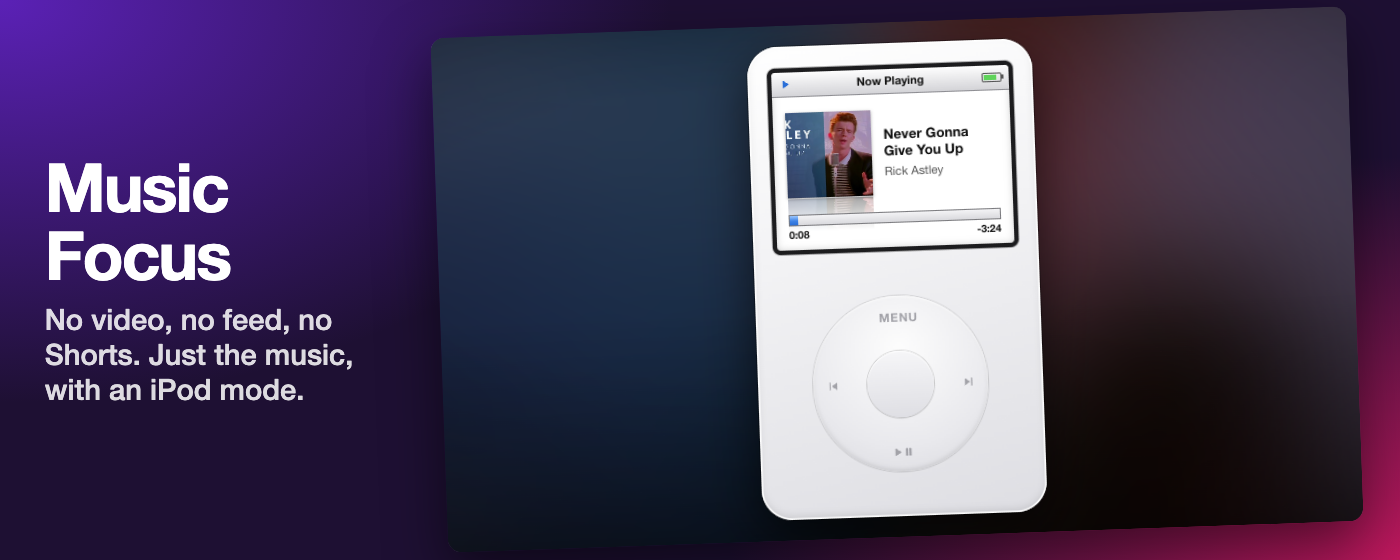
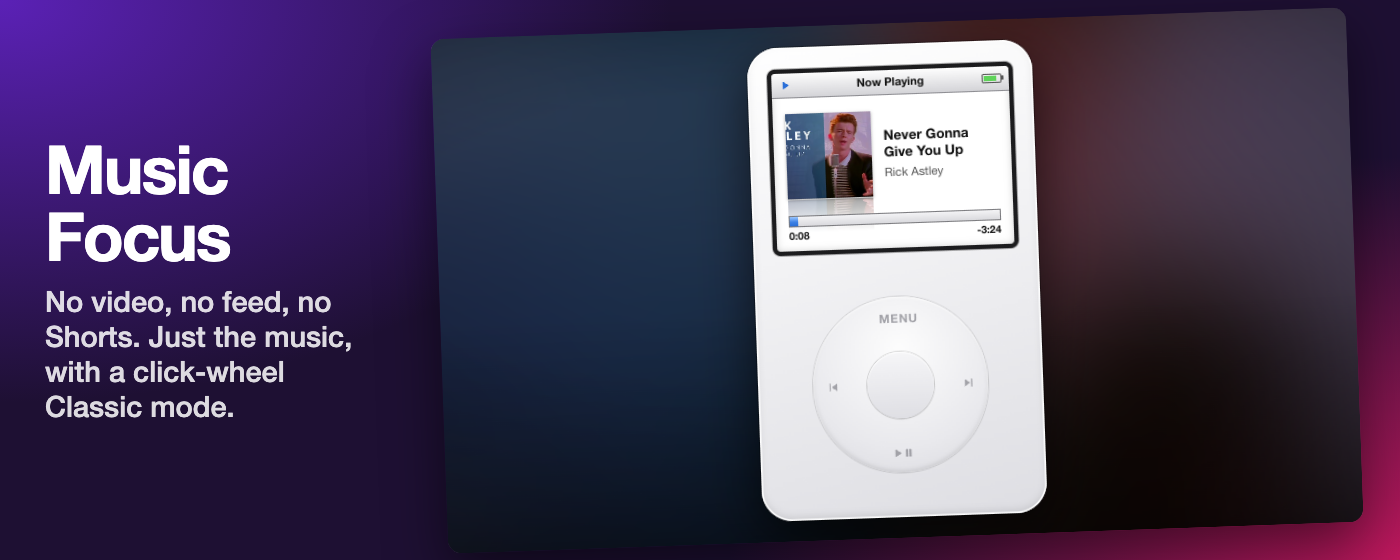
Music Focus 1.1: Classic mode with Brick

diff --git a/public/music-focus/index.html b/public/music-focus/index.html
@@ -4,11 +4,11 @@
 <meta charset="utf-8">
 <meta name="viewport" content="width=device-width, initial-scale=1">
 <title>Music Focus: YouTube, just the music</title>
-<meta name="description" content="A free browser extension that turns YouTube into a music player. No video, no feed, no Shorts, no comments. With an iPod mode and a weekly listening receipt.">
+<meta name="description" content="A free browser extension that turns YouTube into a music player. No video, no feed, no Shorts, no comments. With a click-wheel Classic mode, a Brick game and a weekly listening receipt.">
 <meta property="og:type" content="website">
 <meta property="og:url" content="https://nikola-tesla-odin.github.io/music-focus/">
 <meta property="og:title" content="Music Focus: YouTube, just the music">
-<meta property="og:description" content="No video, no feed, no Shorts. Turn YouTube into a music player, iPod mode included.">
+<meta property="og:description" content="No video, no feed, no Shorts. Turn YouTube into a music player, click wheel included.">
 <meta property="og:image" content="https://nikola-tesla-odin.github.io/music-focus/og.png">
 <meta name="twitter:card" content="summary_large_image">
 <meta name="twitter:site" content="@NikolaTesla_eth">
@@ -83,18 +83,18 @@
       <p class="lede">You open YouTube for one song and end up 40 minutes deep in Shorts. Music Focus turns YouTube into a music player: no video, no feed, no Shorts, no comments.</p>
       <div class="cta">
         <a class="btn primary" href="#install">Install free</a>
-        <a class="btn ghost" href="music-focus-1.0.0.zip" download>Download v1.0.0</a>
+        <a class="btn ghost" href="music-focus-1.1.0.zip" download>Download v1.1.0</a>
         <p class="soon">For Chrome, Edge, Brave and Arc on desktop. Chrome Web Store listing coming soon.</p>
       </div>
     </div>
-    <img src="ipod.png" alt="YouTube playing a song with the video replaced by an iPod Classic with a working click wheel">
+    <img src="ipod.png" alt="YouTube playing a song with the video replaced by a retro music player with a working click wheel">
   </div>
 
   <section>
     <h2>Everything that isn't music, gone</h2>
     <div class="features">
       <div class="feature"><h3>Album art, not video</h3><p>A clean now-playing card with real music controls: progress, previous / next, repeat and volume.</p></div>
-      <div class="feature"><h3>iPod mode</h3><p>A full iPod Classic, click wheel included. Spin it for volume, press the centre to seek. It even clicks.</p></div>
+      <div class="feature"><h3>Classic mode</h3><p>A retro click-wheel player. Spin it for volume, press the centre to seek. It even clicks. MENU → Brick for a game while the song plays.</p></div>
       <div class="feature"><h3>No rabbit holes</h3><p>The home feed becomes a search box. Recommendations, comments, end screens and Shorts disappear.</p></div>
     </div>
   </section>
@@ -112,7 +112,7 @@
     <h2>Install it now</h2>
     <p>While the Chrome Web Store listing is in review, install it by hand in about a minute:</p>
     <ol>
-      <li><a href="music-focus-1.0.0.zip" download>Download the zip</a> and unzip it.</li>
+      <li><a href="music-focus-1.1.0.zip" download>Download the zip</a> and unzip it.</li>
       <li>Open <code>chrome://extensions</code> and turn on <strong>Developer mode</strong> (top right).</li>
       <li>Click <strong>Load unpacked</strong> and choose the unzipped folder.</li>
       <li>Refresh YouTube. Pin Music Focus from the puzzle-piece menu to switch modes.</li>
